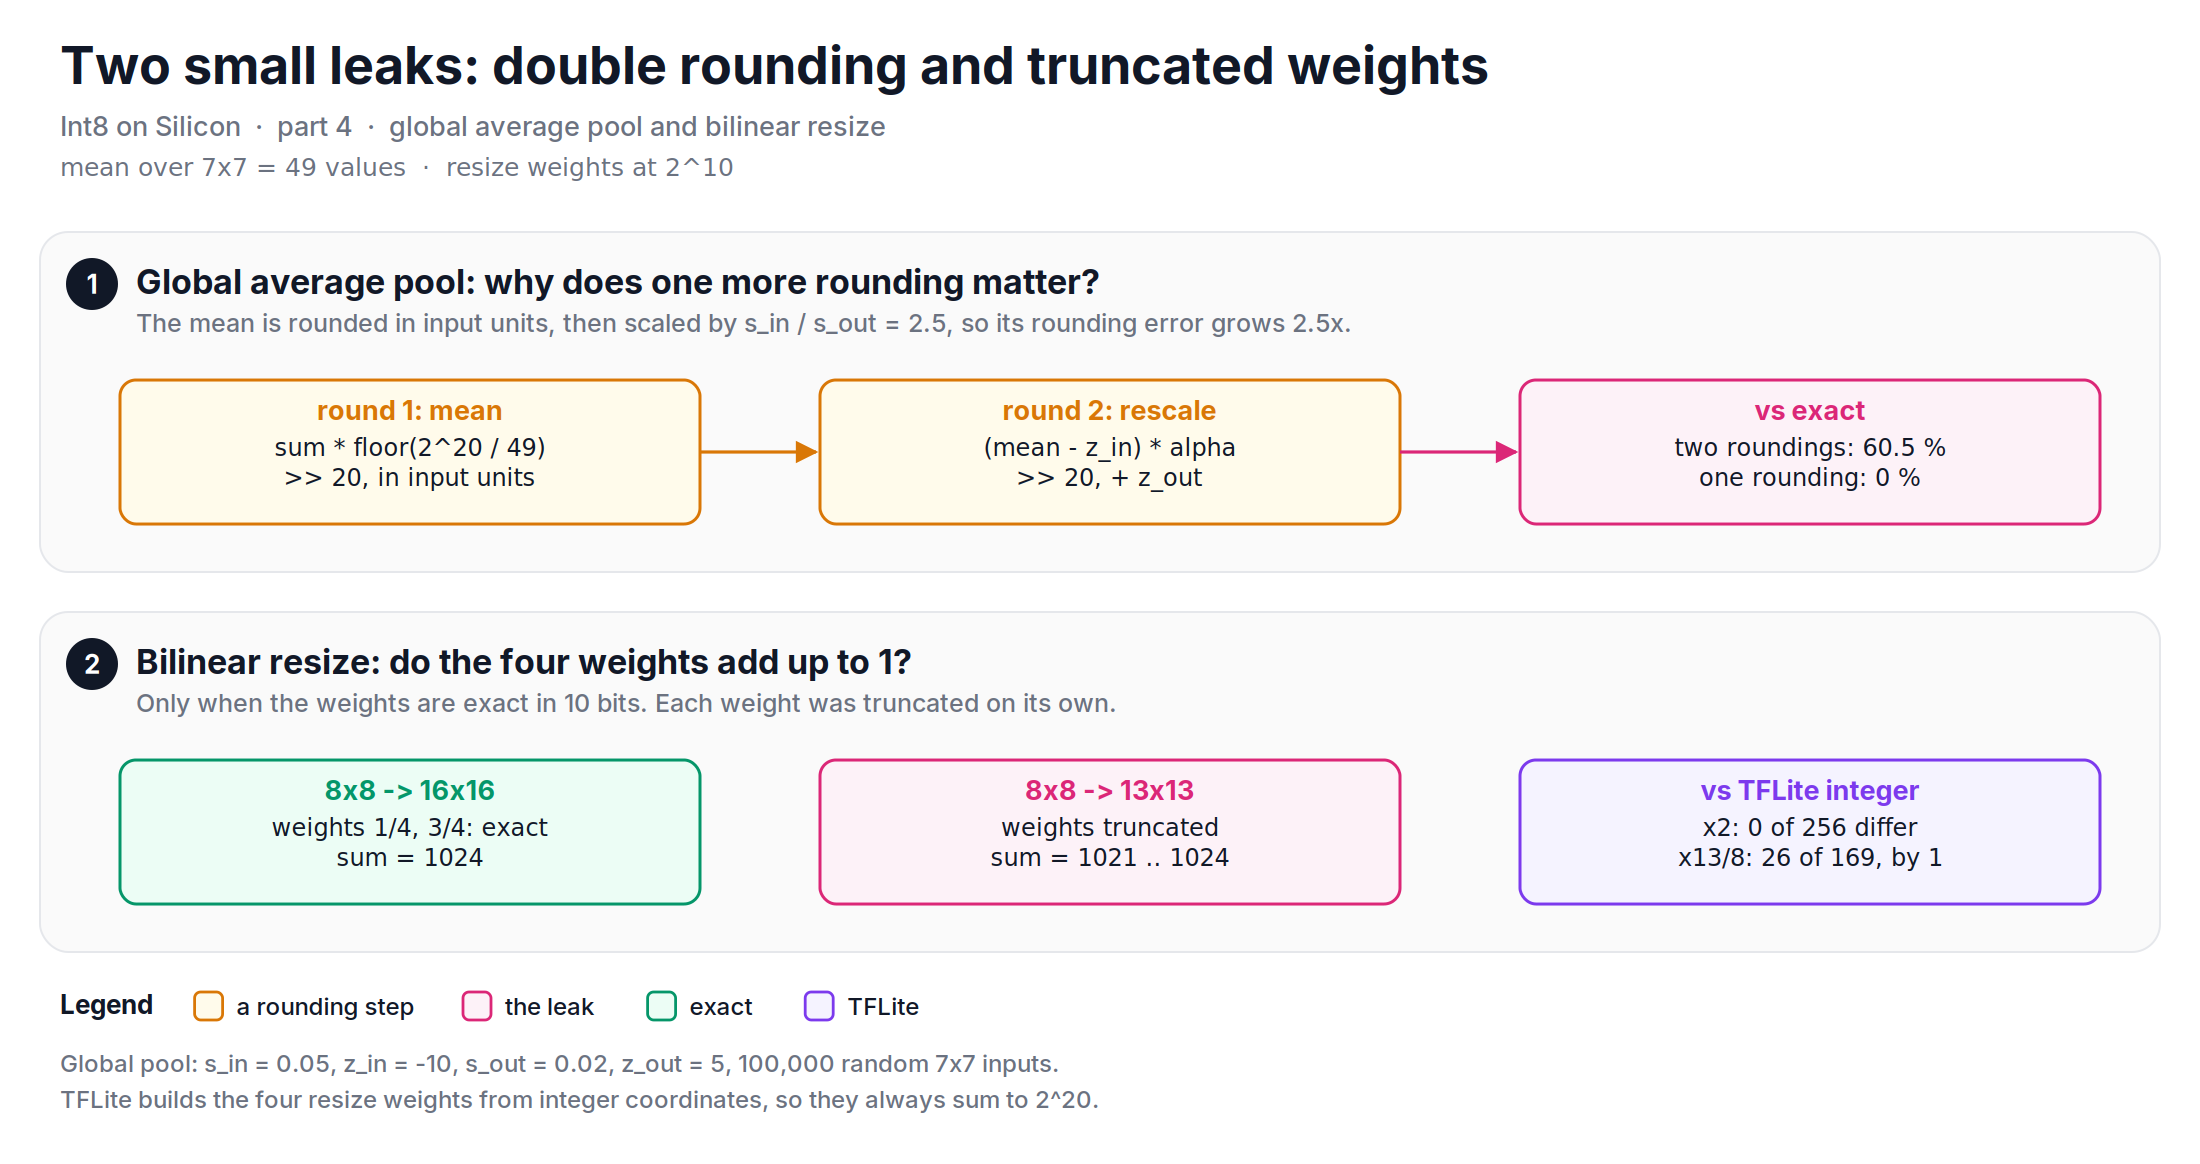
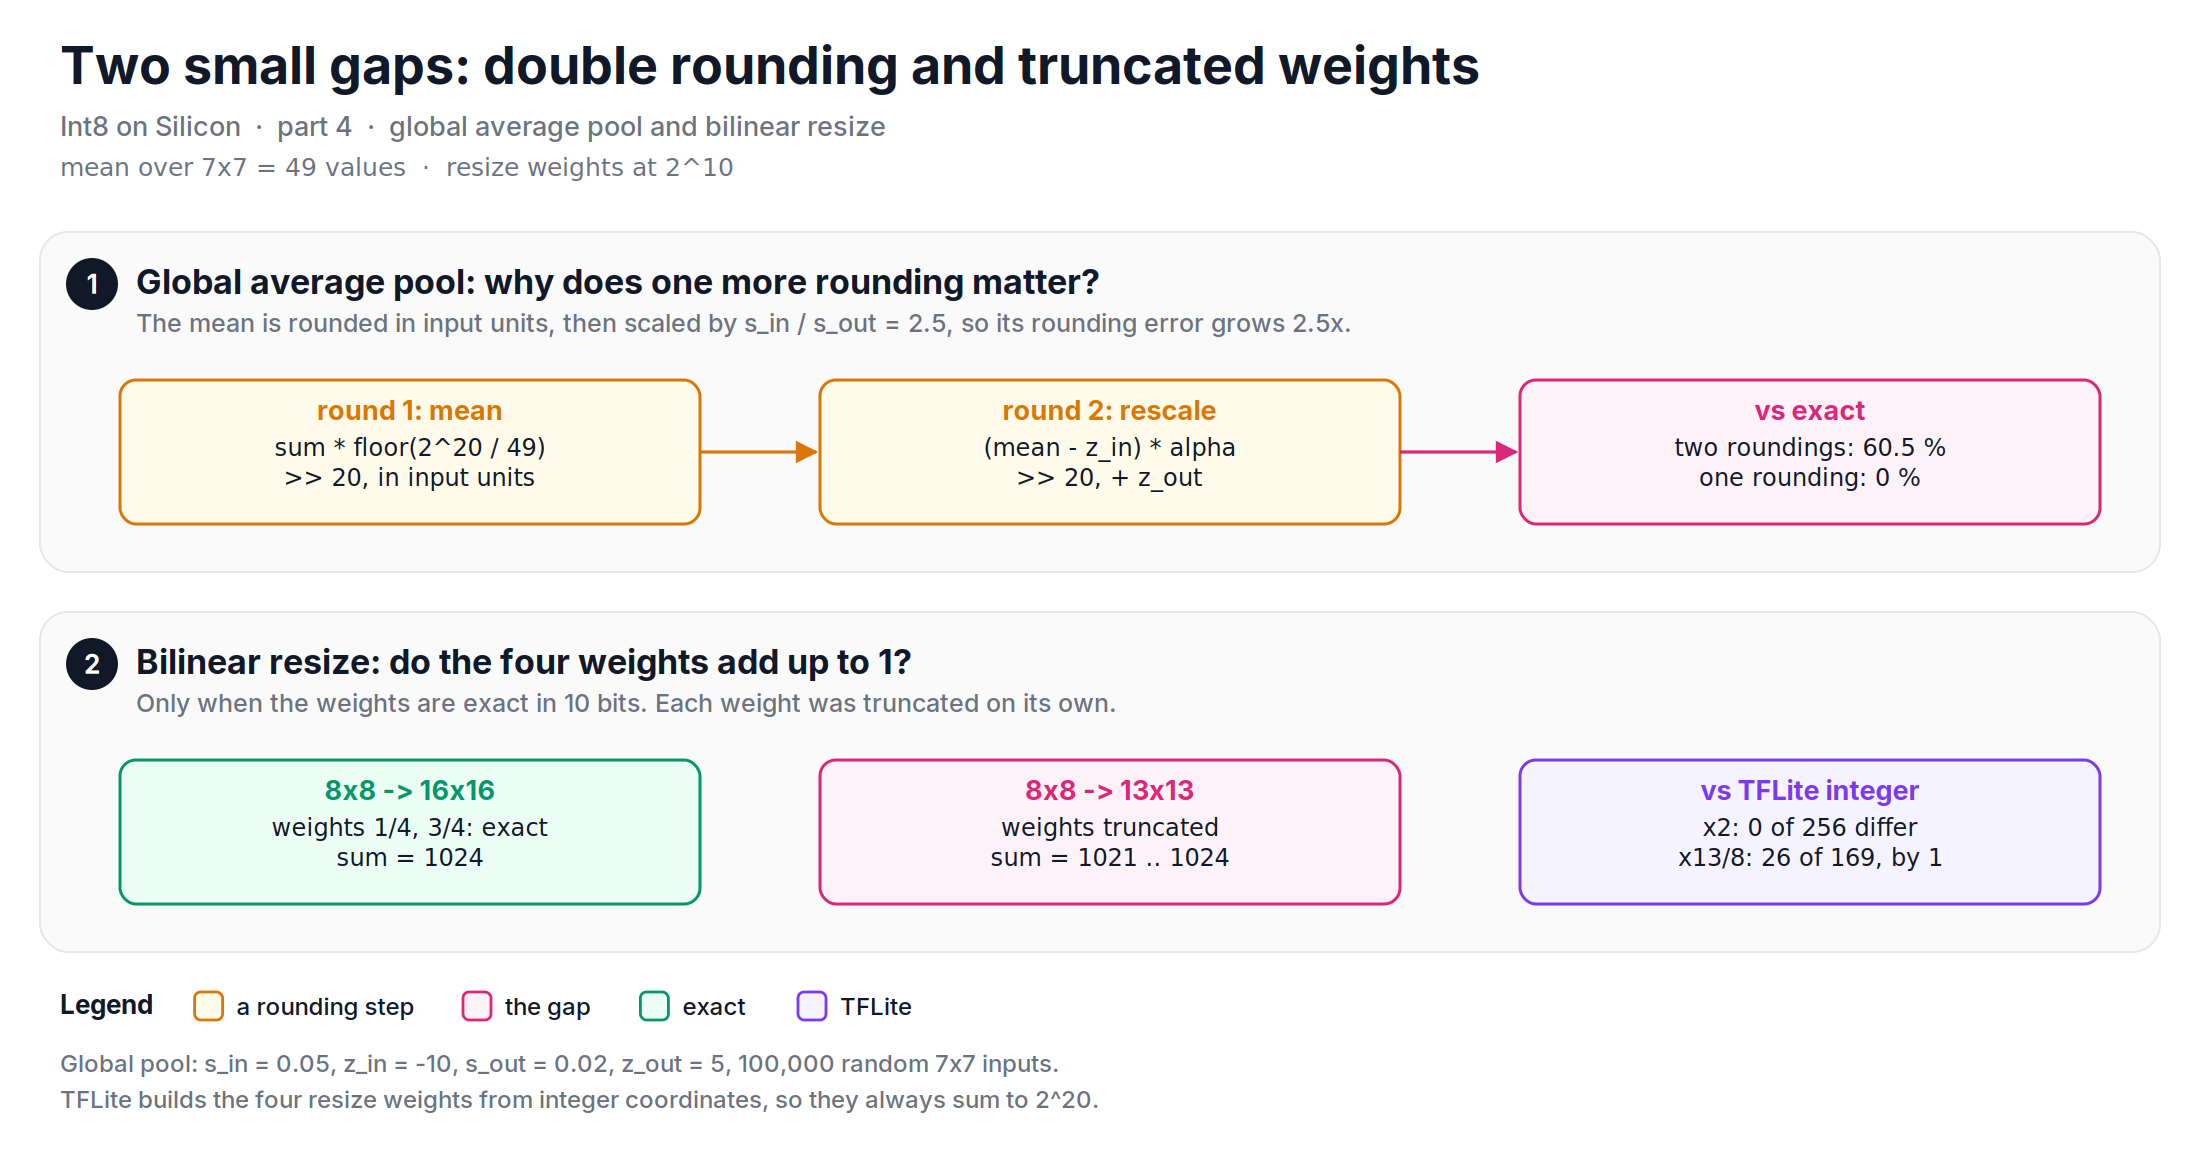
Int8 on Silicon: soften tone; explain the multiply split
- Part 3: the square-root split fits the 32-bit accumulator and was more
  accurate than the uneven split it replaced (62 % -> 46 % off exact);
  script compares both.
- Parts 1, 3, 4, 5, 6 and LinkedIn posts: 'leaks/mistakes' reworded as
  gaps and refinements; figures rebuilt.

Changed region(s): [[0.1545, 0.0309, 0.68, 0.0928], [0.2473, 0.8351, 0.34, 0.8969], [0.3709, 0.8351, 0.4018, 0.8969]]

diff --git a/learnings/20261107_int8_on_silicon_3/diagrams/fig2_multiply_split.py b/learnings/20261107_int8_on_silicon_3/diagrams/fig2_multiply_split.py
@@ -15,7 +15,7 @@ BW, BH = 290, 92
 XS = [60, 410, 760]
 y = 116
 d.panel(y, 200, 1, "How does the split work?",
-        "Each input gets half of the scale, at 2^10. Their product lands at 2^20, a supported shift.")
+        "Each input gets half of the scale, at 2^10, so the product fits the 32-bit accumulator and lands at 2^20.")
 d.box(XS[0], y + 80, BW, BH, "input 1", ["(q1 - z1) * a1", "a1 = 0.05 / sqrt(0.12) * 2^10", "= 147"], col=AMBER, mono_size=12)
 d.box(XS[1], y + 80, BW, BH, "input 2", ["(q2 - z2) * a2", "a2 = 0.03 / sqrt(0.12) * 2^10", "= 88"], col=AMBER, mono_size=12)
 d.box(XS[2], y + 80, BW, BH, "product", ["x1 * x2 (int32)", ">> 20, + z_out, clip"], col=VIOLET, mono_size=12)
@@ -32,7 +32,7 @@ rows = [
 ]
 H = 96 + 26 * len(rows)
 d.panel(y, H, 2, "What does it cost?",
-        "Precision. a = 17 is a 5-bit multiplier. Outputs that differ from exact rounding, 200,000 random pairs:")
+        "Room to go further: a = 17 is a 5-bit multiplier. Outputs that differ from exact rounding, 200,000 pairs:")
 cols = [80, 440, 720]
 for i, r in enumerate(rows):
     ry = y + 92 + i * 26
@@ -46,7 +46,7 @@ for i, r in enumerate(rows):
         d.line(70, ry + 8, 1040, ry + 8, NEUTRAL[0])
 
 y += H + 20
-d.legend(30, y, [(AMBER, "per-input constants"), (VIOLET, "the one rounding"), (PINK, "our error"),
+d.legend(30, y, [(AMBER, "per-input constants"), (VIOLET, "the one rounding"), (PINK, "split, truncated alphas"),
                  (EMERALD, "best variant")])
 y = d.footnotes(30, y + 40, [
     "SE block: s1 = 0.05, z1 = -10; sigmoid output s2 = 1/256, z2 = -128; s_out = 0.05.",

diff --git a/learnings/20261107_int8_on_silicon_3/one_unit_many_ops.py b/learnings/20261107_int8_on_silicon_3/one_unit_many_ops.py
@@ -125,10 +125,26 @@ def mul_variants(s1, z1, s2, z2, so, zo, label):
         print(f"    {name:38s} != exact {(out != ref).mean() * 100:6.2f} %, max {np.abs(out - ref).max()}")
 
 
+# the version the split replaced: uneven, s1 / s_out * 2^10 on input 1 and s2 * 2^10 on input 2
+def mul_uneven(s1, z1, s2, z2, so, zo, label):
+    q1 = rng.integers(-128, 128, N)
+    q2 = rng.integers(-128, 128, N)
+    ref = exact(s1 * (q1 - z1) * s2 * (q2 - z2), so, zo)
+    u1, u2 = int(s1 / so * 1024), int(s2 * 1024)
+    t1, t2 = int(s1 / math.sqrt(so) * 1024), int(s2 / math.sqrt(so) * 1024)
+    uneven = clip8(round_shift(((q1 - z1) * u1) * ((q2 - z2) * u2), 20) + zo)
+    split = clip8(round_shift(((q1 - z1) * t1) * ((q2 - z2) * t2), 20) + zo)
+    print(f"  {label}: uneven alphas {u1}, {u2}: != exact {(uneven != ref).mean() * 100:.2f} %, max {np.abs(uneven - ref).max()}"
+          f"  |  square-root split {t1}, {t2}: {(split != ref).mean() * 100:.2f} %, max {np.abs(split - ref).max()}")
+
+
 print("  where the multiply error comes from:")
 mul_variants(0.05, -10, 0.03, 5, 0.12, -20, "example above")
 # squeeze-and-excitation: activation times a sigmoid output (scale 1/256, zero point -128)
 mul_variants(0.05, -10, 1 / 256, -128, 0.05, -10, "SE block, x * sigmoid")
+print("  the split vs the uneven version it replaced:")
+mul_uneven(0.05, -10, 0.03, 5, 0.12, -20, "example")
+mul_uneven(0.05, -10, 1 / 256, -128, 0.05, -10, "SE block")
 
 
 # ---- an operand that is a constant ---------------------------------------------

diff --git a/learnings/20261107_int8_on_silicon_6/diagrams/fig3_scorecard.py b/learnings/20261107_int8_on_silicon_6/diagrams/fig3_scorecard.py
@@ -1,4 +1,4 @@
-"""Figure 3: the scorecard of leaks found by the scripts of this series.
+"""Figure 3: the scorecard of gaps found by the scripts of this series.
 
 Values: parts 1-6 scripts (one_multiply_one_shift.py, one_unit_many_ops.py, no_divider.py, lessons.py).
 """
@@ -8,10 +8,10 @@ from svglib import EMERALD, INK, NEUTRAL, PINK, Diagram
 d = Diagram(width=1100)
 d.header("What the scripts of this series found",
          "Int8 on Silicon  ·  part 6  ·  measured in NumPy against exact rounding or TFLite",
-         params="most leaks are a truncation or a missing check; the fixes are one line each")
+         params="most gaps are a truncation or a missing check; the fixes are one line each")
 
 rows = [
-    ("part", "leak", "measured effect", "fix"),
+    ("part", "gap", "measured effect", "fix"),
     ("1", "alpha truncated", "2.83 % vs exact", "round(): 0.02 %"),
     ("3", "multiply split, 2^10 alphas", "75 %, max 7 (SE block)", "all of M on one input"),
     ("3", "constant truncated in bias", "85 of 256, by 1", "round()"),
@@ -26,7 +26,7 @@ rows = [
 ]
 y = 116
 H = 96 + 26 * len(rows)
-d.panel(y, H, 1, "Where did the reference model leak?",
+d.panel(y, H, 1, "Where could the reference model be tighter?",
         "Eleven places, each small enough that final model accuracy stayed on par with TFLite.")
 cols = [80, 150, 480, 760]
 for i, r in enumerate(rows):

diff --git a/learnings/20261107_int8_on_silicon_4/diagrams/fig3_pool_and_resize.py b/learnings/20261107_int8_on_silicon_4/diagrams/fig3_pool_and_resize.py
@@ -9,7 +9,7 @@ resize 8x8 -> 16x16: weights sum to 1024, 0 of 256 differ from TFLite;
 from svglib import AMBER, EMERALD, PINK, VIOLET, Diagram
 
 d = Diagram(width=1100)
-d.header("Two small leaks: double rounding and truncated weights",
+d.header("Two small gaps: double rounding and truncated weights",
          "Int8 on Silicon  ·  part 4  ·  global average pool and bilinear resize",
          params="mean over 7x7 = 49 values  ·  resize weights at 2^10")
 
@@ -32,7 +32,7 @@ d.box(XS[1], y + 74, BW, BH, "8x8 -> 13x13", ["weights truncated", "sum = 1021 .
 d.box(XS[2], y + 74, BW, BH, "vs TFLite integer", ["x2: 0 of 256 differ", "x13/8: 26 of 169, by 1"], col=VIOLET, mono_size=12)
 
 y += 190
-d.legend(30, y, [(AMBER, "a rounding step"), (PINK, "the leak"), (EMERALD, "exact"), (VIOLET, "TFLite")])
+d.legend(30, y, [(AMBER, "a rounding step"), (PINK, "the gap"), (EMERALD, "exact"), (VIOLET, "TFLite")])
 y = d.footnotes(30, y + 40, [
     "Global pool: s_in = 0.05, z_in = -10, s_out = 0.02, z_out = 5, 100,000 random 7x7 inputs.",
     "TFLite builds the four resize weights from integer coordinates, so they always sum to 2^20.",

diff --git a/learnings/20261107_int8_on_silicon_3/linkedin-post.md b/learnings/20261107_int8_on_silicon_3/linkedin-post.md
@@ -12,9 +12,9 @@ Constants: "add 0.75" goes into the bias, "multiply by -1.5" goes into alpha. On
 
 ReLU, ReLU6, LeakyReLU, PReLU and min(x, c) are one kernel: a slope for negative inputs and a clip. Only the constants change.
 
-Multiply was the weak spot, and I only measured it while writing this. We split M = s1·s2/s_out into two square roots, one per input, at 2^10 each. For an SE block (x · sigmoid), one alpha comes out as 17, a 5-bit multiplier: 75% of the outputs differ from exact rounding, by up to 7. Putting all of M on one input would give 0.05%.
+Multiply had to fit a 32-bit accumulator. We split M = s1·s2/s_out into two square roots, one per input, at 2^10 each, which was more accurate than the uneven split before it (46% vs 62% of outputs off exact rounding). Measuring it again this week, there is room to go further: for an SE block (x · sigmoid), one alpha is only 17, and putting all of M on one input would bring the error to 0.05%.
 
-The models still matched TFLite accuracy, but this is the first thing I'd change.
+The models matched TFLite accuracy either way.
 
 Code and figure scripts are in my kaizen repo (link in comments). Part 4: operations without a divider.
 

diff --git a/learnings/20261107_int8_on_silicon_1/linkedin-post.md b/learnings/20261107_int8_on_silicon_1/linkedin-post.md
@@ -14,7 +14,7 @@ So we fixed the shift at 20 and put all the precision into one integer per chann
 
 Result: never more than 1 away from TFLite, and different in 3% of the values. Accuracy on full datasets was on par.
 
-The part I only found while writing this: the 3% was not from the single rounding. We truncated alpha (2416.99 → 2416). With alpha rounded to 2417, our result matches exact rounding better than TFLite does (0.02% vs 0.18%). One rounding was right; one int() was wrong.
+The part I only found while writing this: the 3% was not from the single rounding. We truncated alpha (2416.99 → 2416). With alpha rounded to 2417, our result matches exact rounding better than TFLite does (0.02% vs 0.18%). One rounding was right; rounding alpha too closes the gap.
 
 And why 20? alpha × acc ≈ output × 2^20. An int8 output plus 20 fraction bits is 28 bits, so the product fits in int32 with 4 bits to spare.
 

diff --git a/learnings/20261107_int8_on_silicon_6/linkedin-post.md b/learnings/20261107_int8_on_silicon_6/linkedin-post.md
@@ -8,7 +8,7 @@ Int8 on Silicon, part 6, the last one: what held up, and what I would change.
 
 What held up: one post-processing unit for every operation, and a fixed shift of 20 with one rounding. I only understood the 20 fully this week: alpha × acc is the output with 20 fraction bits, and an int8 output plus 4 spare bits leaves exactly 20 in a 32-bit product. It was the best shift there is.
 
-What leaked, found by re-running everything in NumPy:
+What I'd refine, found by re-running everything in NumPy:
 → Constants truncated with int() instead of rounded. Rounding alpha alone takes the mismatch from 2.83% to 0.02%, better than TFLite.
 → One extra rounding in global average pooling.
 → Border rules that nobody wrote down: average pooling and max pooling at SAME padding.

diff --git a/learnings/20261107_int8_on_silicon_4/linkedin-post.md b/learnings/20261107_int8_on_silicon_4/linkedin-post.md
@@ -12,7 +12,7 @@ Sigmoid, tanh, hard-swish: an int8 input has only 256 values, so any one-input f
 
 Softmax needs the whole row, so it ran in float on the host.
 
-The ideas held up. But re-running everything in NumPy this week found four small leaks:
+The ideas held up. But re-running everything in NumPy this week found four small gaps:
 → SAME average pooling divides by 9 at the border, where TFLite divides by the valid count: border outputs off by up to 37.
 → Global average pooling rounded twice: 60% of outputs one or two steps off. One rounding is exact.
 → The tables used int() instead of round(): 113 of 256 sigmoid entries one below.
